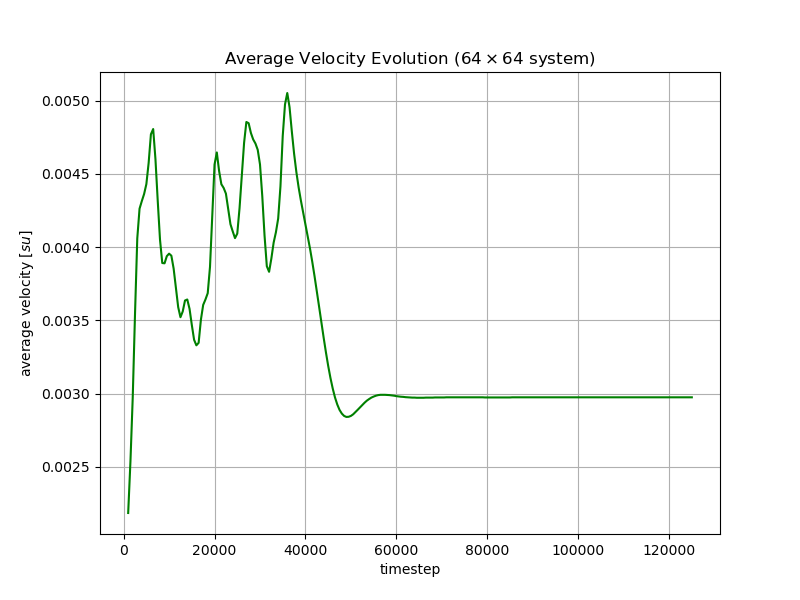
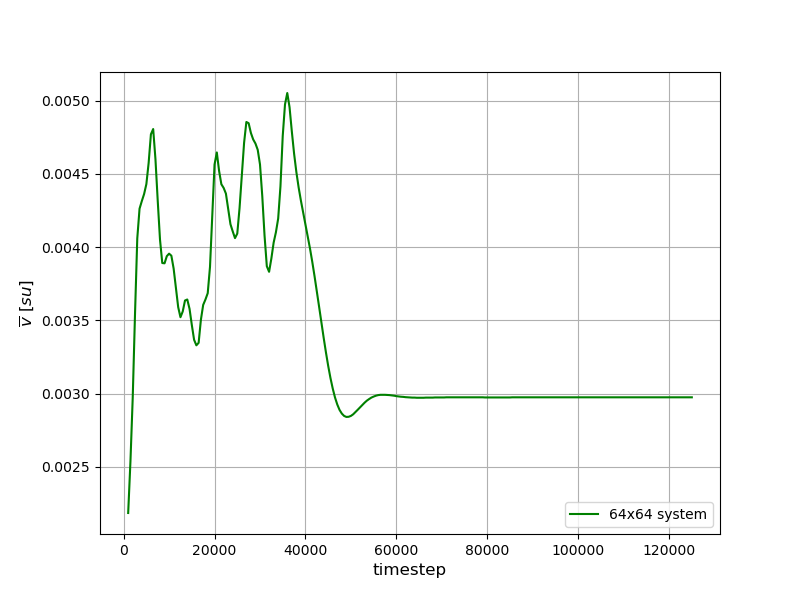
replotted a bunch of graphs for consistency

diff --git a/plot.py b/plot.py
@@ -50,12 +50,13 @@ def plot_SD(data):
     SD_err = data[:, 2]
 
     plt.figure(figsize=(8, 6))
-    plt.plot(z, SD, linestyle='-', color='r')
+    plt.plot(z, SD, linestyle='-', color='r', label=f'{system}x{system} system')
     plt.fill_between(z, SD - SD_err, SD + SD_err, color='r', alpha=0.2)
-    plt.xlabel(r'activity parameter ($\zeta$)')
-    plt.ylabel(r'standard deviation of velocity [$su$]')
-    plt.title(rf'Standard Deviation of Velocity vs Activity (${system} \times {system}$ system)')
+    plt.xlabel(r'activity parameter ($\zeta$)', fontsize=12)
+    plt.ylabel(r'$\sigma (\nu)$ [$su$]', fontsize=12)
+    #plt.title(rf'Standard Deviation of Velocity vs Activity (${system} \times {system}$ system)')
     plt.grid(True)
+    plt.legend(loc='lower right')
     plt.show()
 
 def plot_vt(data):
@@ -64,11 +65,12 @@ def plot_vt(data):
     v = data[:, 1]
 
     plt.figure(figsize=(8, 6))
-    plt.plot(t, v, linestyle='-', color='g')
-    plt.xlabel('timestep')
-    plt.ylabel(r'average velocity [$su$]')
-    plt.title(rf'Average Velocity Evolution (${system} \times {system}$ system)')
+    plt.plot(t, v, linestyle='-', color='g', label=f'{system}x{system} system')
+    plt.xlabel('timestep', fontsize=12)
+    plt.ylabel(r'$\overline{v}$ [$su$]', fontsize=12)
+    #plt.title(rf'Average Velocity Evolution (${system} \times {system}$ system)')
     plt.grid(True)
+    plt.legend(loc='lower right')
     plt.show()
 
 def plot_mean_v(data):
@@ -77,11 +79,12 @@ def plot_mean_v(data):
     v = data[:, 1]
 
     plt.figure(figsize=(8, 6))
-    plt.plot(z, v, linestyle='-', color='b')
-    plt.xlabel(r'activity parameter ($\zeta$)')
-    plt.ylabel(r'mean velocity in steady-state [$su$]')
-    plt.title(rf'Mean Velocity vs Activity (${system} \times {system}$ system)')
+    plt.plot(z, v, linestyle='-', color='b', label=f'{system}x{system} system')
+    plt.xlabel(r'activity parameter ($\zeta$)', fontsize=12)
+    plt.ylabel(r'$\langle v \rangle$ in steady-state [$su$]', fontsize=12)
+    #plt.title(rf'Mean Velocity vs Activity (${system} \times {system}$ system)')
     plt.grid(True)
+    plt.legend(loc='lower right')
     plt.show()
 
 def plot_fft(data):
@@ -118,11 +121,88 @@ def plot_fft(data):
     plt.tight_layout()  # Add extra padding at bottom
     plt.show()
 
+def plot_both_mean_vz(data32, data64):
+    """Plot mean velocity in steady-state vs activity parameter for both 32x32 and 64x64 systems."""
+    data32 = np.array(data32)
+    data64 = np.array(data64)
+
+    z32 = data32[:, 0]
+    v32 = data32[:, 1]
+
+    z64 = data64[:, 0]
+    v64 = data64[:, 1]
+
+    fig, ax = plt.subplots(1, 2, figsize=(10, 4))
+
+    #fig.suptitle(rf'Mean Velocity in Steady-State vs. Activity', fontsize=16)
+
+    ax[0].plot(z32, v32, label='32x32 system', color='b')
+    ax[0].set_xlabel(r'activity parameter ($\zeta$)', fontsize=12)
+    ax[0].set_ylabel(r'$\langle v \rangle$ in steady-state [$su$]', fontsize=12)
+    ax[0].legend(loc='lower right')
+    ax[0].grid(True)
+
+    ax[1].plot(z64, v64, label='64x64 system', color='b')
+    ax[1].set_xlabel(r'activity parameter ($\zeta$)', fontsize=12)
+    #ax[1].set_ylabel(r'mean velocity in steady-state [$su$]', fontsize=12)
+    ax[1].legend(loc='lower right')
+    ax[1].grid(True)
+
+    plt.tight_layout()  # Add extra padding at bottom
+    plt.show()
+
+def plot_both_SD(data32, data64):
+    """Plot standard deviation of velocity vs activity parameter for both 32x32 and 64x64 systems."""
+    data32 = np.array(data32)
+    data64 = np.array(data64)
+
+    z32 = data32[:, 0]
+    SD32 = data32[:, 1]
+    SD_err32 = data32[:, 2]
+
+    z64 = data64[:, 0]
+    SD64 = data64[:, 1]
+    SD_err64 = data64[:, 2]
+
+    fig, ax = plt.subplots(1, 2, figsize=(10, 4))
+
+    #fig.suptitle(rf'Standard Deviation of Velocity vs. Activity', fontsize=16)
+
+    ax[0].plot(z32, SD32, label='32x32 system', color='r')
+    ax[0].fill_between(z32, SD32 - SD_err32, SD32 + SD_err32, color='r', alpha=0.2)
+    ax[0].set_xlabel(r'activity parameter ($\zeta$)', fontsize=12)
+    ax[0].set_ylabel(r'$\sigma(v)$ [$su$]', fontsize=12)
+    ax[0].legend(loc='lower right')
+    ax[0].grid(True)
+
+    ax[1].plot(z64, SD64, label='64x64 system', color='r')
+    ax[1].fill_between(z64, SD64 - SD_err64, SD64 + SD_err64, color='r', alpha=0.2)
+    ax[1].set_xlabel(r'activity parameter ($\zeta$)', fontsize=12)
+    #ax[1].set_ylabel(r'standard deviation of velocity [$su$]', fontsize=12)
+    ax[1].legend(loc='lower right')
+    ax[1].grid(True)
+    
+    plt.tight_layout()  # Add extra padding at bottom
+    plt.show()
+
 if __name__ == "__main__":
+    
     system = "32"
     local_path = Path(__file__).parent / f"velocity vs time AB0.0 {system}"
-    file_path = local_path / 'velocity_.0300.dat'
+    file_path = local_path / 'velocity_.0900.dat'
 
     data = np.loadtxt(file_path)[::1]
     
-    plot_fft(data)
+    plot_vt(data)
+    """
+    local_path32 = Path(__file__).parent / "velocity vs time AB0.0 32"
+    local_path64 = Path(__file__).parent / "velocity vs time AB0.0 64"
+
+    file_path32 = local_path32 / 'mean_v_data.txt'
+    file_path64 = local_path64 / 'mean_v_data.txt'
+
+    data32 = np.loadtxt(file_path32)[::4]
+    data64 = np.loadtxt(file_path64)[::2]
+
+    plot_both_mean_vz(data32, data64)
+    """

diff --git a/fourier.py b/fourier.py
@@ -81,22 +81,66 @@ def plot_SD_freq(SD_freq, spacing=1):
     SD_nu = SD_freq[:, 1]
 
     plt.figure(figsize=(8, 6))
-    plt.plot(z[::spacing], SD_nu[::spacing], color='m')
-    plt.xlabel(r'activity parameter ($\zeta$)')
-    plt.ylabel(r'standard deviation of frequency [cycles timestep$^{-1}$]')
-    plt.title(rf'Standard Deviation of Frequency vs Activity (${system} \times {system}$ system)')
+    plt.plot(z[::spacing], SD_nu[::spacing], color='m', label=f'{system}x{system} system')
+    plt.xlabel(r'activity parameter ($\zeta$)', fontsize=12)
+    plt.ylabel(r'$\sigma(\nu)$ [cycles timestep$^{-1}$]', fontsize=12)
+    #plt.title(rf'Standard Deviation of Frequency vs. Activity', fontsize=16)
     plt.grid(True)
+    plt.legend(loc='lower right')
+    plt.show()
+
+def plot_both(data32, data64, spacing32, spacing64):
+    """Plot standard deviation of frequency vs activity parameter for both 32x32 and 64x64 systems."""
+    data32 = np.array(data32)
+    data64 = np.array(data64)
+
+    z32 = data32[:, 0]
+    SD_nu32 = data32[:, 1]
+
+    z64 = data64[:, 0]
+    SD_nu64 = data64[:, 1]
+
+    fig, ax = plt.subplots(1, 2, figsize=(10, 4))
+
+    #fig.suptitle(rf'Standard Deviation of Frequency vs. Activity', fontsize=16)
+
+    ax[0].plot(z32[::spacing32], SD_nu32[::spacing32], label='32x32 system', color='m')
+    ax[0].set_xlabel(r'activity parameter ($\zeta$)', fontsize=12)
+    ax[0].set_ylabel(r'$\sigma(\nu)$ [cycles timestep$^{-1}$]', fontsize=12)
+    ax[0].legend(loc='lower right')
+    ax[0].grid(True)
+
+    ax[1].plot(z64[::spacing64], SD_nu64[::spacing64], label='64x64 system', color='m')
+    ax[1].set_xlabel(r'activity parameter ($\zeta$)', fontsize=12)
+    #ax[1].set_ylabel(r'standard deviation of frequency [cycles timestep$^{-1}$]')
+    ax[1].legend(loc='lower right')
+    ax[1].grid(True)
+    
+    plt.tight_layout()  # Add extra padding at bottom
     plt.show()
 
 if __name__ == "__main__":
+    
     system = "64"
-    local_path = Path(__file__).parent / f"velocity vs time AB0.0 {system}"
+    local_path = Path(__file__).parent / f"velocity vs time AB0.1 {system}"
     
     if system == "32":
         spacing = 4
     elif system == "64":
-        spacing = 4
+        spacing = 2
 
     z, t_list, v_list = get_data(local_path)
     SD_freq = frequency_analysis(z, t_list, v_list)
     plot_SD_freq(SD_freq, spacing=spacing)
+    """
+    local_path32 = Path(__file__).parent / "velocity vs time AB0.0 32"
+    local_path64 = Path(__file__).parent / "velocity vs time AB0.0 64"
+
+    z32, t_list32, v_list32 = get_data(local_path32)
+    SD_freq32 = frequency_analysis(z32, t_list32, v_list32)
+
+    z64, t_list64, v_list64 = get_data(local_path64)
+    SD_freq64 = frequency_analysis(z64, t_list64, v_list64)
+
+    plot_both(SD_freq32, SD_freq64, spacing32=4, spacing64=2)
+    """
